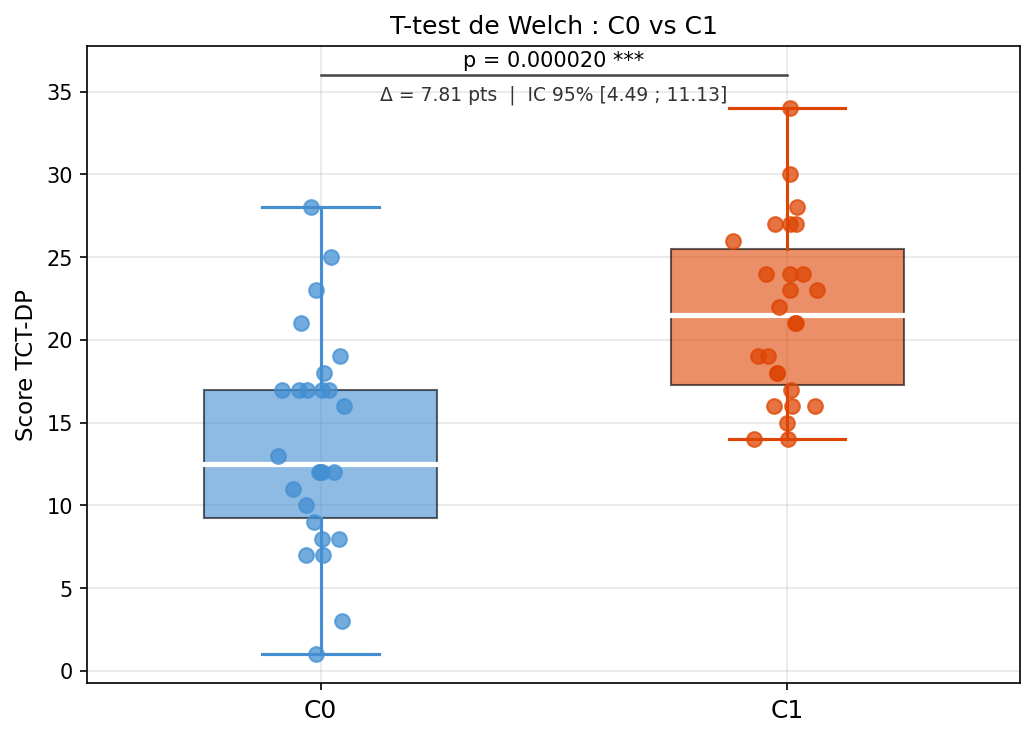
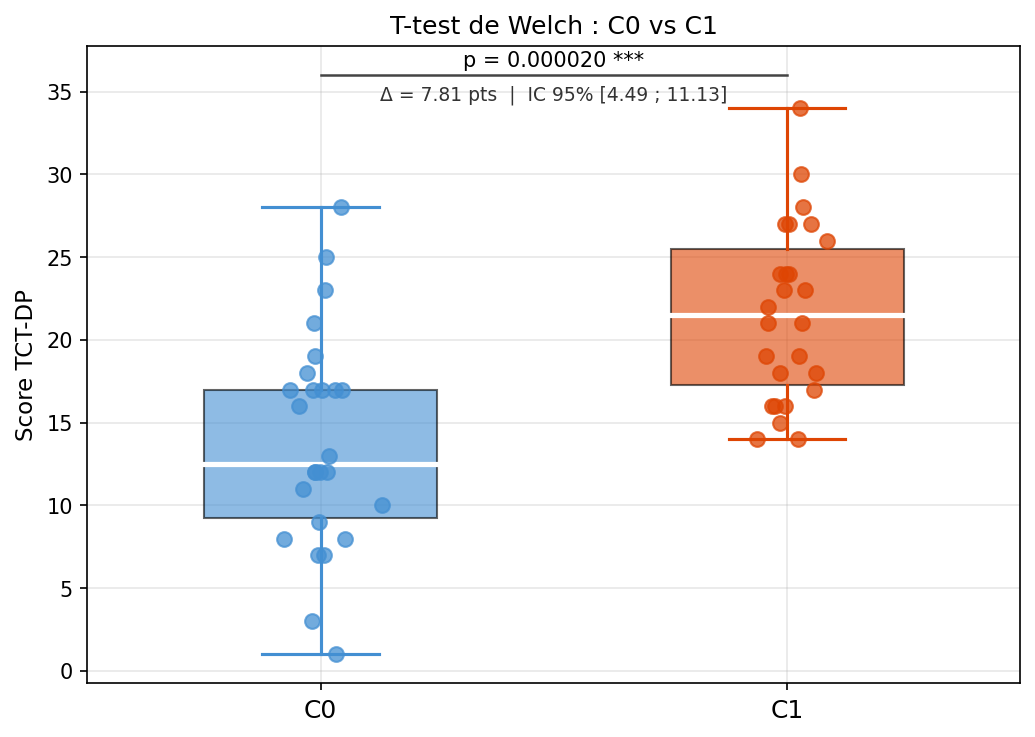
Stat tranche d'age et criteres

diff --git a/pc_dev/stats/scores_par_age.py b/pc_dev/stats/scores_par_age.py
@@ -1,0 +1,113 @@
+import pandas as pd
+import numpy as np
+import matplotlib.pyplot as plt
+
+
+# Chargement
+df = pd.read_csv("scores_tctdp.csv").dropna(subset=["Total"])
+
+ordre   = ["Jeune enfant", "Enfant", "Adolescent", "Adulte"]
+couleurs = {"C0": "#438FD2", "C1": "#DE4503"}
+
+
+# Statistiques descriptives par âge
+print("Moyennes par tranche d'âge et condition")
+print(df.groupby(["Tranche_age", "Condition"])["Total"]
+        .agg(["mean", "std", "count"])
+        .round(2))
+print()
+print("Moyennes par tranche d'âge (toutes conditions)")
+print(df.groupby("Tranche_age")["Total"]
+        .agg(["mean", "std", "count"])
+        .round(2))
+print()
+print("Adolescent (N=2) et Adulte (N=3) : effectifs trop petits")
+print("pour des tests statistiques, résultats purement descriptifs")
+
+
+# Graphique
+fig, axes = plt.subplots(1, 2, figsize=(13, 5))
+fig.suptitle("Score TCT-DP en fonction de la tranche d'âge",
+             fontsize=13, fontweight="bold")
+
+
+# Graphique 1 : barres C0 vs C1 par tranche d'âge 
+ax = axes[0]
+x     = np.arange(len(ordre))
+width = 0.35
+
+for i, cond in enumerate(["C0", "C1"]):
+    moyennes, erreurs, ns = [], [], []
+    for age in ordre:
+        groupe = df[(df["Tranche_age"] == age) & (df["Condition"] == cond)]["Total"]
+        moyennes.append(groupe.mean() if len(groupe) > 0 else 0)
+        # Erreur standard = SD / √N (donne la précision de la moyenne)
+        erreurs.append(groupe.std() / np.sqrt(len(groupe)) if len(groupe) > 1 else 0)
+        ns.append(len(groupe))
+
+    offset = (i - 0.5) * width
+    ax.bar(x + offset, moyennes, width, label=cond,
+           color=couleurs[cond], alpha=0.75, zorder=3)
+    # Barres d'erreur (± erreur standard)
+    ax.errorbar(x + offset, moyennes, yerr=erreurs,
+                fmt="none", color="black", capsize=4, linewidth=1.2, zorder=4)
+    # N affiché dans chaque barre
+    for j, (m, n) in enumerate(zip(moyennes, ns)):
+        if n > 0:
+            ax.text(x[j] + offset, 1, f"N={n}", ha="center", va="bottom",
+                    fontsize=8, color="white", fontweight="bold", zorder=5)
+
+ax.set_xticks(x)
+ax.set_xticklabels(ordre, fontsize=10)
+ax.set_ylabel("Score moyen (± SE)", fontsize=10)
+ax.set_title("Moyenne par âge et condition", fontsize=11)
+ax.legend(fontsize=9)
+ax.grid(axis="y", alpha=0.3)
+ax.spines[["top", "right"]].set_visible(False)
+
+
+# Graphique 2 : boxplot par tranche d'âge (toutes conditions)
+ax2 = axes[1]
+
+data_par_age = [df[df["Tranche_age"] == age]["Total"].dropna().values
+                for age in ordre]
+
+palette = ["#7EC8E3", "#438FD2", "#1B5E9E", "#0D3B6E"]
+
+bp = ax2.boxplot(data_par_age, positions=range(len(ordre)), widths=0.5,
+                 patch_artist=True,
+                 medianprops=dict(color="white", linewidth=2.5),
+                 whiskerprops=dict(linewidth=1.5),
+                 capprops=dict(linewidth=1.5),
+                 flierprops=dict(marker="o", alpha=0.5))
+
+for patch, color in zip(bp["boxes"], palette):
+    patch.set_facecolor(color)
+    patch.set_alpha(0.7)
+for element in ["whiskers", "caps"]:
+    for i, line in enumerate(bp[element]):
+        line.set_color(palette[i // 2])
+
+# Points individuels avec jitter
+for i, (age, color) in enumerate(zip(ordre, palette)):
+    vals   = df[df["Tranche_age"] == age]["Total"].dropna()
+    jitter = np.random.normal(0, 0.07, size=len(vals))
+    ax2.scatter([i] + jitter, vals, color=color, s=40, alpha=0.7, zorder=5)
+ 
+# N affiché AU-DESSUS de chaque boxplot pour éviter le chevauchement avec les étiquettes
+for i, age in enumerate(ordre):
+    n      = len(df[df["Tranche_age"] == age]["Total"].dropna())
+    y_max  = df[df["Tranche_age"] == age]["Total"].max()
+    ax2.text(i, y_max + 1.5, f"N={n}", ha="center", fontsize=8,
+             color=palette[i], fontweight="bold")
+ 
+ax2.set_xticks(range(len(ordre)))
+ax2.set_xticklabels(ordre, fontsize=10)
+ax2.set_ylabel("Score Total", fontsize=10)
+ax2.set_title("Distribution par âge (toutes conditions)", fontsize=11)
+ax2.grid(axis="y", alpha=0.3)
+ax2.spines[["top", "right"]].set_visible(False)
+ 
+plt.tight_layout()
+plt.savefig("scores_par_age.png", dpi=150, bbox_inches="tight")
+plt.close()

diff --git a/pc_dev/stats/criteres_scoring.py b/pc_dev/stats/criteres_scoring.py
@@ -1,0 +1,108 @@
+import pandas as pd
+import numpy as np
+import matplotlib.pyplot as plt
+from scipy import stats
+
+
+# Chargement
+df = pd.read_csv("scores_tctdp.csv").dropna(subset=["Total"])
+
+CRITERES = ["Cn", "Cm", "Ne", "Cl", "Cth", "Bfd", "Bfi", "Pe", "Hu", "Uc_b", "Uc_c", "Uc_d"]
+couleurs  = {"C0": "#438FD2", "C1": "#DE4503"}
+
+
+# Statistiques par critère
+print("Moyennes par critère (global)")
+moyennes_globales = df[CRITERES].mean().round(2).sort_values(ascending=False)
+print(moyennes_globales)
+print()
+
+# Moyennes par critère et par condition
+print("Moyennes par critère selon la condition")
+print(df.groupby("Condition")[CRITERES].mean().round(2).T)
+print()
+
+# Tableau des différences de moyennes entre C0 et C1
+C0_df = df[df["Condition"] == "C0"]
+C1_df = df[df["Condition"] == "C1"]
+
+print("Différences de moyennes C1 − C0 par critère")
+diff_moyennes = (C1_df[CRITERES].mean() - C0_df[CRITERES].mean()).round(2).sort_values(ascending=False)
+print(diff_moyennes)
+print()
+
+# Cohen's d par critère : quel critère différencie le plus C0 et C1 ?
+print("Cohen's d par critère (différenciation C0 vs C1)")
+def cohens_d(a, b):
+    pooled = np.sqrt((a.std()**2 + b.std()**2) / 2)
+    return (b.mean() - a.mean()) / pooled if pooled != 0 else 0
+
+ds = {}
+for c in CRITERES:
+    d = cohens_d(C0_df[c].dropna(), C1_df[c].dropna())
+    ds[c] = round(d, 3)
+ds_series = pd.Series(ds).sort_values(ascending=False)
+print(ds_series)
+
+
+# Graphique (4 panels)
+fig, axes = plt.subplots(1, 4, figsize=(22, 5))
+fig.suptitle("Analyse des critères de scoring", fontsize=13, fontweight="bold")
+
+
+# Panel 1 : score moyen par critère en points (plus en %)
+ax = axes[0]
+moy_triees      = moyennes_globales.sort_values()
+couleurs_barres = ["#B0C4DE" if v < 2 else "#438FD2" for v in moy_triees]
+ax.barh(moy_triees.index, moy_triees.values, color=couleurs_barres, alpha=0.85)
+# Score affiché à droite de chaque barre
+for i, v in enumerate(moy_triees.values):
+    ax.text(v + 0.05, i, f"{v:.2f}", va="center", fontsize=9)
+ax.set_xlabel("Score moyen (points)", fontsize=10)
+ax.set_title("Score moyen\npar critère", fontsize=11)
+ax.spines[["top", "right"]].set_visible(False)
+ax.grid(axis="x", alpha=0.3)
+
+
+# Panel 2 : moyennes C0 vs C1 par critère
+ax2 = axes[1]
+x     = np.arange(len(CRITERES))
+width = 0.35
+
+for i, cond in enumerate(["C0", "C1"]):
+    moyennes = df[df["Condition"] == cond][CRITERES].mean()
+    offset   = (i - 0.5) * width
+    ax2.bar(x + offset, moyennes, width, label=cond,
+            color=couleurs[cond], alpha=0.75)
+
+ax2.set_xticks(x)
+ax2.set_xticklabels(CRITERES, fontsize=9, rotation=45, ha="right")
+ax2.set_ylabel("Score moyen", fontsize=10)
+ax2.set_title("Moyenne par critère\nselon la condition", fontsize=11)
+ax2.legend(fontsize=9)
+ax2.grid(axis="y", alpha=0.3)
+ax2.spines[["top", "right"]].set_visible(False)
+
+
+# Panel 3 : Cohen's d par critère
+# Un d positif = C1 > C0, négatif = C0 > C1
+ax4 = axes[3]
+ds_triees  = ds_series.sort_values()
+couleurs_d = ["#DE4503" if v >= 0 else "#438FD2" for v in ds_triees]
+ax4.barh(ds_triees.index, ds_triees.values, color=couleurs_d, alpha=0.8)
+ax4.axvline(0,    color="#555", linewidth=1)
+ax4.axvline(0.5,  color="#aaa", linewidth=0.8, linestyle="--")  # seuil petit effet
+ax4.axvline(-0.5, color="#aaa", linewidth=0.8, linestyle="--")
+ax4.axvline(0.8,  color="#aaa", linewidth=0.8, linestyle=":")   # seuil grand effet
+ax4.axvline(-0.8, color="#aaa", linewidth=0.8, linestyle=":")
+ax4.set_xlabel("Cohen's d  [C1 − C0]", fontsize=10)
+ax4.set_title("Quel critère différencie\nle plus C0 et C1 ?", fontsize=11)
+ax4.spines[["top", "right"]].set_visible(False)
+ax4.grid(axis="x", alpha=0.3)
+ax4.text(0.52, -0.7, "petit", fontsize=7, color="#999")
+ax4.text(0.82, -0.7, "grand", fontsize=7, color="#999")
+
+
+plt.tight_layout()
+plt.savefig("criteres_scoring.png", dpi=150, bbox_inches="tight")
+plt.close()
